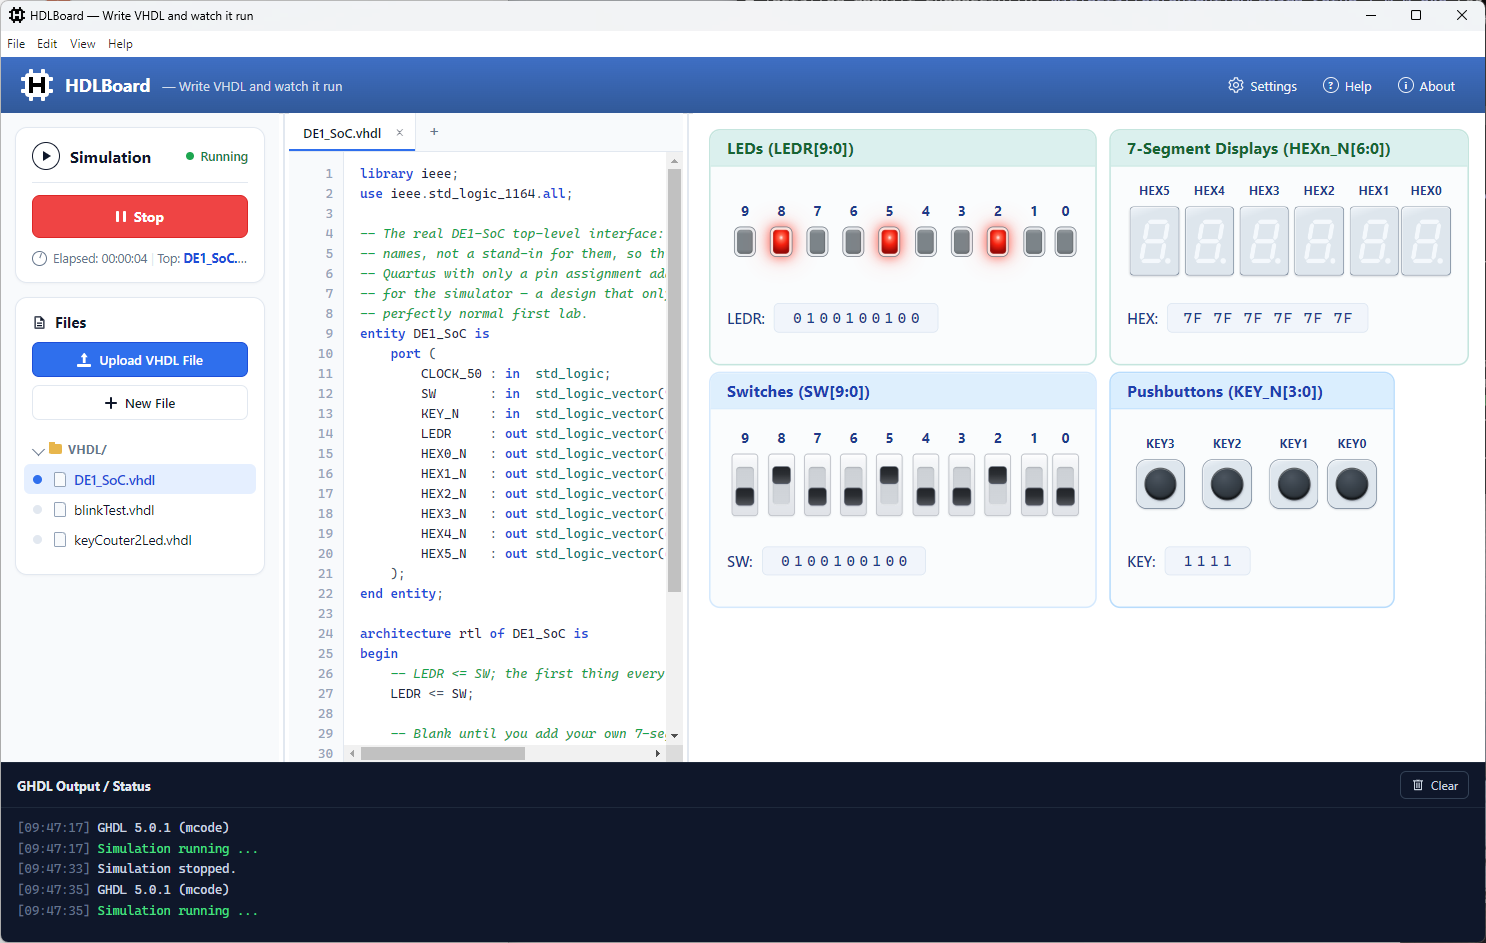
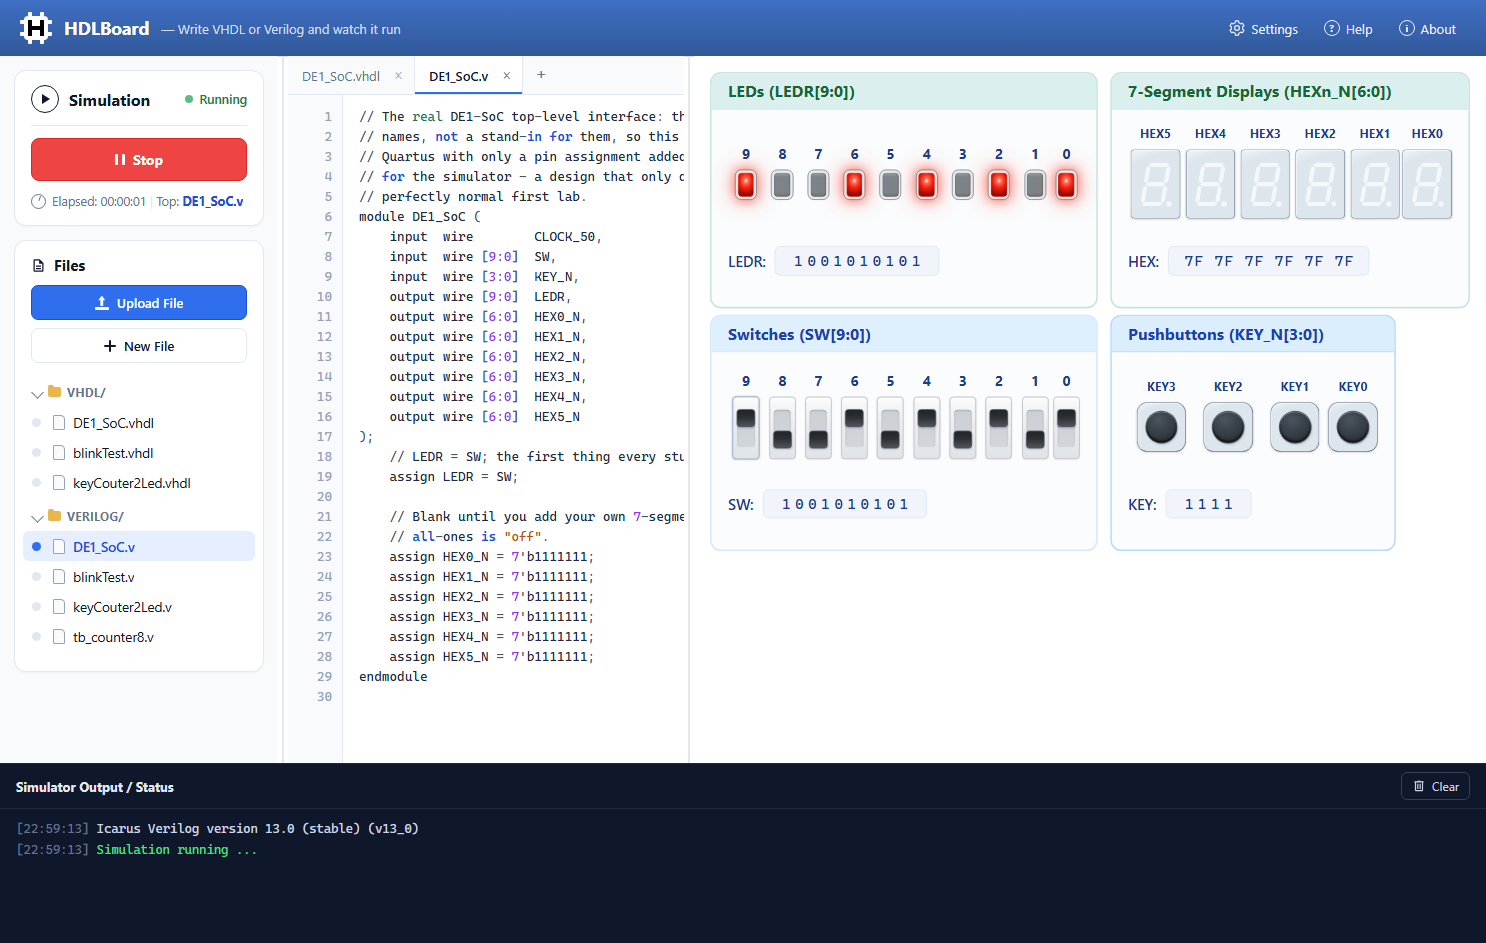
Starter project gets the Verilog twins; README and screenshot show a Verilog design
verilog/ in the starter project holds DE1_SoC.v, blinkTest.v, keyCouter2Led.v and
tb_counter8.v (guarded against the test fixtures like the VHDL ones); tagline
says VHDL or Verilog; workbench.png is a fresh capture of the app running
DE1_SoC.v.

Claude-Session: https://claude.ai/code/session_01Wkag1vrQzLdCi1HWA4Cgnc

diff --git a/src/components/workbench/files.ts b/src/components/workbench/files.ts
@@ -3,7 +3,8 @@
 
 /* ------------------------------------------------------------------ *
  * Starter project shown in the Files panel — the DE1-SoC top-level
- * entity plus a few small example designs, so the workbench opens
+ * entity plus a few small example designs (each in VHDL and Verilog; the
+ * Verilog ones sit in `verilog/`), so the workbench opens
  * looking like a project mid-course, not empty.
  * ------------------------------------------------------------------ */
 
@@ -142,10 +143,151 @@ begin
 end architecture rtl;
 `;
 
+const DE1_SOC_V = `// The real DE1-SoC top-level interface: these are the board's own pin
+// names, not a stand-in for them, so this file can go straight into
+// Quartus with only a pin assignment added. Every port here is optional
+// for the simulator - a design that only declares SW and LEDR is a
+// perfectly normal first lab.
+module DE1_SoC (
+    input  wire        CLOCK_50,
+    input  wire [9:0]  SW,
+    input  wire [3:0]  KEY_N,
+    output wire [9:0]  LEDR,
+    output wire [6:0]  HEX0_N,
+    output wire [6:0]  HEX1_N,
+    output wire [6:0]  HEX2_N,
+    output wire [6:0]  HEX3_N,
+    output wire [6:0]  HEX4_N,
+    output wire [6:0]  HEX5_N
+);
+    // LEDR = SW; the first thing every student wires up.
+    assign LEDR = SW;
+
+    // Blank until you add your own 7-segment logic - active low, so
+    // all-ones is "off".
+    assign HEX0_N = 7'b1111111;
+    assign HEX1_N = 7'b1111111;
+    assign HEX2_N = 7'b1111111;
+    assign HEX3_N = 7'b1111111;
+    assign HEX4_N = 7'b1111111;
+    assign HEX5_N = 7'b1111111;
+endmodule
+`;
+
+const BLINK_TEST_V = `// The real DE1-SoC top-level interface: these are the board's own pin
+// names, not a stand-in for them, so this file can go straight into
+// Quartus with only a pin assignment added. Every port here is optional
+// for the simulator - a design that only declares SW and LEDR is a
+// perfectly normal first lab.
+module blinkTest (
+    input  wire        CLOCK_500Hz,
+    input  wire [9:0]  SW,
+    input  wire [3:0]  KEY_N,
+    output wire [9:0]  LEDR,
+    output wire [6:0]  HEX0_N,
+    output wire [6:0]  HEX1_N,
+    output wire [6:0]  HEX2_N,
+    output wire [6:0]  HEX3_N,
+    output wire [6:0]  HEX4_N,
+    output wire [6:0]  HEX5_N
+);
+    // 500 Hz clock -> 500 cycles per second
+    // For 2 Hz blink (LED toggles every 250 ms):
+    // Toggle period = 1 / (2 * 2 Hz) = 250 ms
+    // Cycles per toggle = 0.25 s * 500 = 125
+    localparam TOGGLE_COUNT = 125;
+
+    reg [6:0] counter   = 7'd0;      // counts 0 .. TOGGLE_COUNT-1
+    reg       led_state = 1'b0;
+
+    always @(posedge CLOCK_500Hz) begin
+        if (counter == TOGGLE_COUNT - 1) begin
+            counter   <= 7'd0;
+            led_state <= ~led_state;
+        end else begin
+            counter <= counter + 7'd1;
+        end
+    end
+
+    // Drive all 10 LEDs with the same blinking signal
+    assign LEDR = {10{led_state}};
+
+    // The VHDL original leaves these outputs undriven; Verilog would read
+    // them as high-impedance, so they are blanked explicitly (active low).
+    assign HEX0_N = 7'b1111111;
+    assign HEX1_N = 7'b1111111;
+    assign HEX2_N = 7'b1111111;
+    assign HEX3_N = 7'b1111111;
+    assign HEX4_N = 7'b1111111;
+    assign HEX5_N = 7'b1111111;
+endmodule
+`;
+
+const KEY_COUNTER_2_LED_V = `module counter8 (
+    input  wire        CLOCK_50,
+    input  wire [3:0]  KEY_N,
+    output wire [9:0]  LEDR
+);
+    reg [7:0] count    = 8'd0;
+    reg [1:0] key_prev = 2'b11;
+
+    // KEY_N[1]: reset, KEY_N[0]: count up. Both act on a button *press*,
+    // i.e. the falling edge of the active-low key.
+    always @(KEY_N[1:0]) begin
+        if (key_prev[1] && !KEY_N[1])
+            count <= 8'd0;
+        else if (key_prev[0] && !KEY_N[0])
+            count <= count + 8'd1;
+        key_prev <= KEY_N[1:0];
+    end
+
+    assign LEDR[7:0] = count;
+    assign LEDR[9:8] = 2'b00;          // unused LEDs off
+endmodule
+`;
+
+const TB_COUNTER8_V = `// Self-checking testbench: no ports, so it runs on its own (batch mode).
+module tb_counter8;
+    reg        CLOCK_50 = 1'b0;
+    reg  [3:0] KEY_N    = 4'b1111;
+    wire [9:0] LEDR;
+
+    counter8 dut (.CLOCK_50(CLOCK_50), .KEY_N(KEY_N), .LEDR(LEDR));
+
+    always #10 CLOCK_50 = ~CLOCK_50;
+
+    task press(input integer key);
+        begin
+            KEY_N[key] = 1'b0;
+            #100;
+            KEY_N[key] = 1'b1;
+            #100;
+        end
+    endtask
+
+    initial begin
+        #100;
+        press(0);
+        press(0);
+        press(0);
+        $display("count after 3 presses = %0d", LEDR[7:0]);
+        press(1);
+        $display("count after reset     = %0d", LEDR[7:0]);
+        if (LEDR[7:0] === 8'd0) $display("PASS");
+        else                    $display("FAIL");
+        $finish;
+    end
+endmodule
+`;
+
 export const STARTER_FILES: VhdlFile[] = [
   { id: 'de1_soc', name: 'DE1_SoC.vhdl', folder: 'vhdl', content: DE1_SOC_VHD },
   { id: 'blink_test', name: 'blinkTest.vhdl', folder: 'vhdl', content: BLINK_TEST_VHD },
   { id: 'key_counter_2_led', name: 'keyCouter2Led.vhdl', folder: 'vhdl', content: KEY_COUNTER_2_LED_VHD },
+  { id: 'de1_soc_v', name: 'DE1_SoC.v', folder: 'verilog', content: DE1_SOC_V },
+  { id: 'blink_test_v', name: 'blinkTest.v', folder: 'verilog', content: BLINK_TEST_V },
+  { id: 'key_counter_2_led_v', name: 'keyCouter2Led.v', folder: 'verilog', content: KEY_COUNTER_2_LED_V },
+  { id: 'tb_counter8_v', name: 'tb_counter8.v', folder: 'verilog', content: TB_COUNTER8_V },
 ];
 
 export const DEFAULT_OPEN_TABS = ['de1_soc'];

diff --git a/src/components/workbench/files.fixtures.test.ts b/src/components/workbench/files.fixtures.test.ts
@@ -5,35 +5,41 @@ import { describe, expect, test } from 'vitest';
 import { STARTER_FILES } from './files';
 
 /**
- * `tests/fixtures/vhdl/` holds copies of the starter designs, so the same scenario
- * can run against GHDL and its Verilog twin (docs/Verilog_implementation_plan.md
- * § 7.3). Two copies of one design will drift unless something stops them; this is
- * that guard (case K-10).
+ * `tests/fixtures/vhdl/` and `tests/fixtures/verilog/` hold copies of the starter
+ * designs, so the same scenario can run against GHDL and Icarus
+ * (docs/Verilog_implementation_plan.md § 7.3). Two copies of one design will drift
+ * unless something stops them; this is that guard (case K-10).
  */
 
-const fixtureTexts = import.meta.glob<string>('../../../tests/fixtures/vhdl/*.vhdl', {
+const fixtureTexts = import.meta.glob<string>('../../../tests/fixtures/{vhdl,verilog}/*.{vhdl,v}', {
   query: '?raw',
   import: 'default',
   eager: true,
 });
 
 const withLfLineEndings = (text: string) => text.replace(/\r\n/g, '\n');
-const fileNameOf = (path: string) => path.slice(path.lastIndexOf('/') + 1);
 
-const fixtureByName = new Map(Object.entries(fixtureTexts).map(([path, text]) => [fileNameOf(path), text]));
-const vhdlStarters = STARTER_FILES.filter((file) => file.folder === 'vhdl');
+/** The fixtures of one language folder, by file name. */
+function fixturesIn(folder: 'vhdl' | 'verilog'): Map<string, string> {
+  const marker = `/tests/fixtures/${folder}/`;
+  const found = Object.entries(fixtureTexts).filter(([path]) => path.includes(marker));
+  return new Map(found.map(([path, text]) => [path.slice(path.lastIndexOf('/') + 1), text]));
+}
 
-describe('the VHDL test fixtures', () => {
-  test.each(vhdlStarters.map((starter) => [starter.name, starter.content] as const))(
+describe.each(['vhdl', 'verilog'] as const)('the %s test fixtures', (folder) => {
+  const fixtures = fixturesIn(folder);
+  const starters = STARTER_FILES.filter((file) => file.folder === folder);
+
+  test.each(starters.map((starter) => [starter.name, starter.content] as const))(
     '%s equals the starter design it was copied from',
     (name, starterContent) => {
-      expect(fixtureByName.has(name), `tests/fixtures/vhdl/${name} is missing`).toBe(true);
-      expect(withLfLineEndings(fixtureByName.get(name) ?? '')).toBe(withLfLineEndings(starterContent));
+      expect(fixtures.has(name), `tests/fixtures/${folder}/${name} is missing`).toBe(true);
+      expect(withLfLineEndings(fixtures.get(name) ?? '')).toBe(withLfLineEndings(starterContent));
     },
   );
 
   test('include no design that is not a starter', () => {
-    const starterNames = vhdlStarters.map((starter) => starter.name).sort();
-    expect([...fixtureByName.keys()].sort()).toEqual(starterNames);
+    const starterNames = starters.map((starter) => starter.name).sort();
+    expect([...fixtures.keys()].sort()).toEqual(starterNames);
   });
 });

diff --git a/src/components/workbench/project.ts b/src/components/workbench/project.ts
@@ -5,7 +5,7 @@
 export const APP_NAME = 'HDLBoard';
 
 /** The one-liner that follows the name — title bar, README, installer. */
-export const APP_TAGLINE = 'Write VHDL and watch it run';
+export const APP_TAGLINE = 'Write VHDL or Verilog and watch it run';
 
 /** Where the project lives — shown in the dialogs, opened in the user's browser. */
 export const REPO_URL = 'https://github.com/rlangoy/HDLBoard';

diff --git a/winInstaller/electron/main.js b/winInstaller/electron/main.js
@@ -186,7 +186,7 @@ app.whenReady().then(async () => {
     minWidth: 900,
     minHeight: 600,
     backgroundColor: '#1e1e1e',
-    title: 'HDLBoard — Write VHDL and watch it run',
+    title: 'HDLBoard — Write VHDL or Verilog and watch it run',
     show: false,
     webPreferences: {
       // The renderer is a plain web app talking over a WebSocket; it has

diff --git a/index.html b/index.html
@@ -3,7 +3,7 @@
   <head>
     <meta charset="UTF-8" />
     <meta name="viewport" content="width=device-width, initial-scale=1.0" />
-    <title>HDLBoard — Write VHDL and watch it run</title>
+    <title>HDLBoard — Write VHDL or Verilog and watch it run</title>
   </head>
   <body>
     <div id="root"></div>

diff --git a/docs/Verilog_implementation_plan.md b/docs/Verilog_implementation_plan.md
@@ -8,7 +8,7 @@ This document was written before the code; § 4 is the record of the measurement
 Pro 10.0.26200, x64) against real Icarus Verilog binaries; § 4 is the record.
 Where something could only be read, or was not tested, the text says so.
 
-**Deviations from the plan as built** (small, deliberate): the compile-every-fixture check of C5 moved to D2; process code is split into `verilog/process.ts` (compile) and `verilog/run.ts` (vvp); pure language rules live in `engines/language.ts` and the registry in `engines/selectEngine.ts`; the bundled tree is flat (`resources/iverilog`, run with `-B`/`-M`), not `bin/`+`lib/`; I-V12's runaway case is `initial forever` (Icarus rejects a zero-delay `always` at compile time); a missing or declined Icarus install on Linux warns rather than stops `start.sh` (VHDL still runs); the flood limiter is checked per run (I-V21 for both engines); E-8 renames of `tb_*.vhd` go to `work/`; G5 (installed self-test) was not built.
+**Deviations from the plan as built** (small, deliberate): the compile-every-fixture check of C5 moved to D2; process code is split into `verilog/process.ts` (compile) and `verilog/run.ts` (vvp); pure language rules live in `engines/language.ts` and the registry in `engines/selectEngine.ts`; the bundled tree is flat (`resources/iverilog`, run with `-B`/`-M`), not `bin/`+`lib/`; I-V12's runaway case is `initial forever` (Icarus rejects a zero-delay `always` at compile time); a missing or declined Icarus install on Linux warns rather than stops `start.sh` (VHDL still runs); the flood limiter is checked per run (I-V21 for both engines); E-8 renames of `tb_*.vhd` go to `work/`; G5 (installed self-test) was not built; the starter project shows the `verilog/` twins too (a later request), so the old "starter shows `vhdl/` only" check no longer applies (V-1 now expects both folders).
 
 **The end state:** a student drops or uploads a `.v` file, it lands in a new
 **`verilog/`** folder, and when a file in that folder is the selected top-level

diff --git a/README.md b/README.md
@@ -1,8 +1,8 @@
-# HDLBoard - Write VHDL and watch it run
+# HDLBoard - Write VHDL or Verilog and watch it run
 
 Write VHDL or Verilog and watch it run on a virtual board — flip switches, light LEDs, see it work. Built on GHDL (VHDL) and Icarus Verilog (Verilog), it's designed to give beginning students a simple first step into FPGA design before tackling timing analysis and beyond. Runs standalone on Windows or hosted in a browser.
 
-![HDLBoard running DE1_SoC.vhdl: the editor and file tree on the left, and the board's LEDs, 7-segment displays, switches and pushbuttons on the right, with five switches up and their LEDs lit.](docs/images/workbench.png)
+![HDLBoard running DE1_SoC.v, a Verilog design: the file tree with its vhdl/ and verilog/ starter folders and the editor on the left, the board's LEDs, 7-segment displays, switches and pushbuttons on the right, and Icarus Verilog's banner in the console; five switches are up and their LEDs are lit.](docs/images/workbench.png)
 
 ## Features
 

diff --git a/src/components/workbench/README.md b/src/components/workbench/README.md
@@ -405,7 +405,7 @@ live in `Dialog.css`, along with the shared callout and link-button styles;
 each dialog adds its own small stylesheet.
 
 `project.ts` holds the constants the dialogs and the desktop menu need to
-agree on: `APP_NAME` (`HDLBoard`), `APP_TAGLINE` (`Write VHDL and watch it run`),
+agree on: `APP_NAME` (`HDLBoard`), `APP_TAGLINE` (`Write VHDL or Verilog and watch it run`),
 `REPO_URL` (`https://github.com/rlangoy/HDLBoard`), `ISSUES_URL`, `GHDL_URL`,
 and `ABOUT_EVENT` (`'hdl-board:show-about'` — keep it in
 step with `winInstaller/electron/main.js`). Change the repository address in
